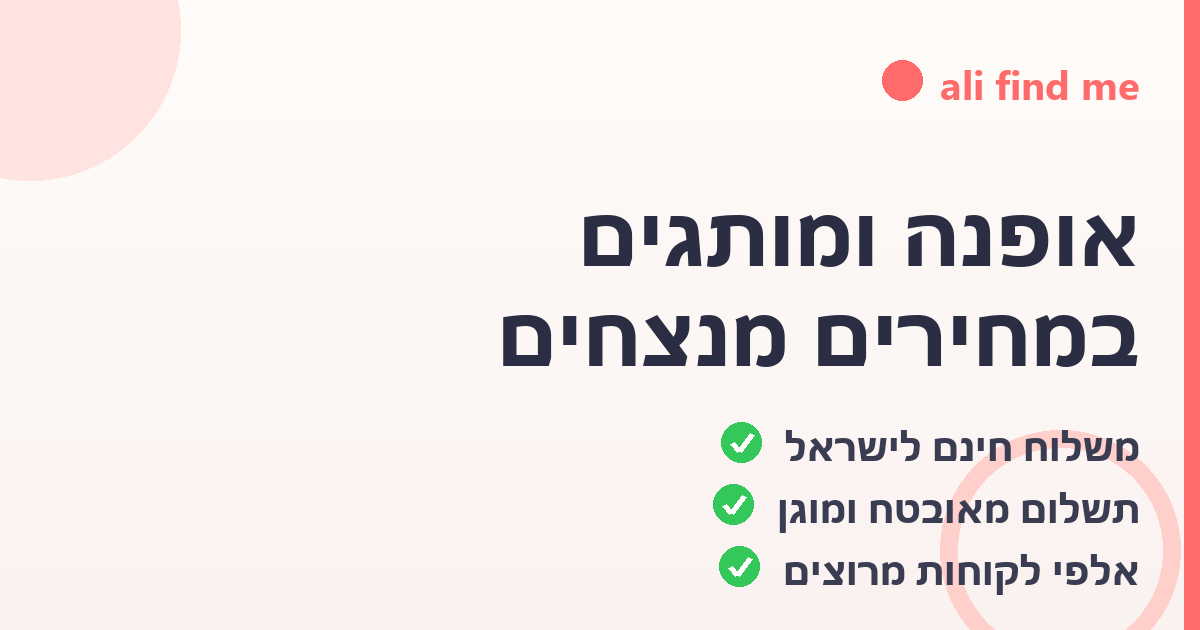
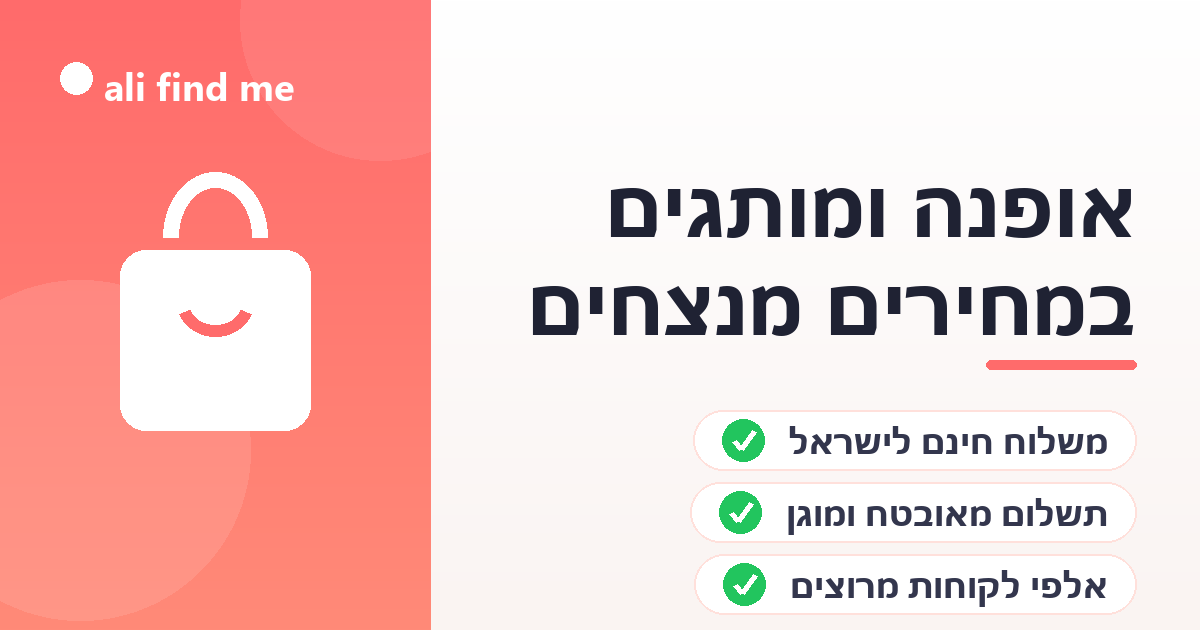
Redesign OG card: clean two-panel layout (coral brand + pill badges)
Replaces the amateur floating-circles version with a polished design:
left coral panel with shopping-bag mark + brand, right side bold
headline + coral accent underline + 3 white pill trust badges.
Bump image cache to v3.

diff --git a/404.html b/404.html
@@ -7,8 +7,8 @@
 <meta property="og:description" content="✓ משלוח חינם לישראל  ✓ תשלום מאובטח ומוגן  ✓ אלפי לקוחות מרוצים — לחצו לצפייה במוצר">
 <meta property="og:type" content="website">
 <meta property="og:site_name" content="ali find me">
-<meta property="og:image" content="https://alifindme.com/icons/og-image.png?v=2">
-<meta property="og:image:secure_url" content="https://alifindme.com/icons/og-image.png?v=2">
+<meta property="og:image" content="https://alifindme.com/icons/og-image.png?v=3">
+<meta property="og:image:secure_url" content="https://alifindme.com/icons/og-image.png?v=3">
 <meta property="og:image:type" content="image/png">
 <meta property="og:image:width" content="1200">
 <meta property="og:image:height" content="630">
@@ -17,7 +17,7 @@
 <meta name="twitter:card" content="summary_large_image">
 <meta name="twitter:title" content="אופנה ומותגים במחירים מנצחים 🛍️">
 <meta name="twitter:description" content="✓ משלוח חינם לישראל  ✓ תשלום מאובטח  ✓ אלפי לקוחות מרוצים">
-<meta name="twitter:image" content="https://alifindme.com/icons/og-image.png?v=2">
+<meta name="twitter:image" content="https://alifindme.com/icons/og-image.png?v=3">
 <script async src="https://www.googletagmanager.com/gtag/js?id=G-18NLX6KS89"></script>
 <script>window.dataLayer=window.dataLayer||[];function gtag(){dataLayer.push(arguments);}gtag('js',new Date());gtag('config','G-18NLX6KS89');</script>
 <link rel="preconnect" href="https://ae-cart.ohadf1976.workers.dev" crossorigin>

diff --git a/icons/make_og.py b/icons/make_og.py
@@ -1,70 +1,93 @@
 # -*- coding: utf-8 -*-
-# Generates a premium, trustworthy 1200x630 Open Graph card for alifindme.com landing-page links.
-from PIL import Image, ImageDraw, ImageFont
+# Premium 1200x630 Open Graph card for alifindme.com landing-page links.
+# Clean two-panel layout: coral brand panel (left) + content (right, RTL).
+from PIL import Image, ImageDraw, ImageFont, ImageFilter
 from bidi.algorithm import get_display
 
 W, H = 1200, 630
 F = "C:/Windows/Fonts/"
+PANEL = 430  # left coral panel width
 
 def font(name, size):
     return ImageFont.truetype(F + name, size)
 
 def he(s):
-    # PIL renders LTR; bidi reorders Hebrew (and mixed Hebrew+latin/numbers) correctly.
     return get_display(s)
+
+def vgrad(draw, box, c1, c2):
+    x0, y0, x1, y1 = box
+    h = y1 - y0
+    for i in range(h):
+        t = i / max(1, h - 1)
+        r = int(c1[0] + (c2[0] - c1[0]) * t)
+        g = int(c1[1] + (c2[1] - c1[1]) * t)
+        b = int(c1[2] + (c2[2] - c1[2]) * t)
+        draw.line([(x0, y0 + i), (x1, y0 + i)], fill=(r, g, b))
 
 img = Image.new("RGB", (W, H), "#ffffff")
 d = ImageDraw.Draw(img)
 
-# --- Premium warm gradient background (cream -> soft blush) ---
-top = (255, 252, 250)
-bot = (250, 242, 240)
-for y in range(H):
-    t = y / H
-    r = int(top[0] + (bot[0] - top[0]) * t)
-    g = int(top[1] + (bot[1] - top[1]) * t)
-    b = int(top[2] + (bot[2] - top[2]) * t)
-    d.line([(0, y), (W, y)], fill=(r, g, b))
+# --- Right content area: clean soft warm gradient ---
+vgrad(d, (PANEL, 0, W, H), (255, 255, 255), (250, 244, 242))
 
-# --- Coral accent bar down the right edge (RTL side) ---
-d.rectangle([W - 16, 0, W, H], fill="#ff6b6b")
+# --- Left brand panel: coral -> warm pink gradient ---
+vgrad(d, (0, 0, PANEL, H), (255, 107, 107), (255, 138, 120))
 
-# --- Soft decorative circles (depth, premium feel) ---
-d.ellipse([-120, -120, 180, 180], fill="#ffe3e0")
-d.ellipse([W - 260, H - 200, W - 20, H + 40], outline="#ffd0cb", width=18)
+# subtle large translucent circle inside the panel (depth, stays behind icon)
+ov = Image.new("RGBA", (W, H), (0, 0, 0, 0))
+od = ImageDraw.Draw(ov)
+od.ellipse([-90, 280, 250, 620], fill=(255, 255, 255, 28))
+od.ellipse([240, -120, 520, 160], fill=(255, 255, 255, 22))
+img.paste(Image.alpha_composite(img.convert("RGBA"), ov).convert("RGB"), (0, 0))
+d = ImageDraw.Draw(img)
 
-# --- Brand wordmark (top-right, RTL) ---
-brand_f = font("segoeuib.ttf", 40)
-brand = "ali find me"
-bw = d.textlength(brand, font=brand_f)
-d.text((W - 60 - bw, 56), brand, font=brand_f, fill="#ff6b6b")
-# small dot logo
-d.ellipse([W - 60 - bw - 58, 60, W - 60 - bw - 18, 100], fill="#ff6b6b")
+# --- Brand wordmark (white, top of left panel) ---
+brand_f = font("segoeuib.ttf", 38)
+d.ellipse([60, 62, 92, 94], fill="#ffffff")
+d.text((104, 60), "ali find me", font=brand_f, fill="#ffffff")
 
-# --- Main headline (Hebrew, RTL, right-aligned) ---
-h1_f = font("segoeuib.ttf", 84)
-h2_f = font("segoeuib.ttf", 84)
-line1 = he("אופנה ומותגים")
-line2 = he("במחירים מנצחים")
-d.text((W - 60, 175), line1, font=h1_f, fill="#2b2d42", anchor="ra")
-d.text((W - 60, 275), line2, font=h2_f, fill="#2b2d42", anchor="ra")
+# --- Shopping-bag icon (white line art, centered in panel) ---
+cx = PANEL // 2
+by0, by1 = 250, 430          # bag body
+bx0, bx1 = cx - 95, cx + 95
+d.rounded_rectangle([bx0, by0, bx1, by1], radius=26, fill="#ffffff")
+# handle (arc)
+d.arc([cx - 52, by0 - 78, cx + 52, by0 + 52], start=180, end=360, fill="#ffffff", width=16)
+# coral cut-outs to make it look like a bag (smile + handle holes)
+d.arc([cx - 38, by0 + 18, cx + 38, by0 + 86], start=20, end=160, fill="#ff6b6b", width=12)
 
-# --- Trust badges row (checkmark + Hebrew), right-aligned, stacked ---
-badge_f = font("segoeuib.ttf", 38)
+# --- Headline (Hebrew, RTL, right-aligned) ---
+h_f = font("segoeuib.ttf", 80)
+d.text((W - 64, 150), he("אופנה ומותגים"), font=h_f, fill="#1f2233", anchor="ra")
+d.text((W - 64, 248), he("במחירים מנצחים"), font=h_f, fill="#1f2233", anchor="ra")
+# coral accent underline under headline
+d.rounded_rectangle([W - 64 - 150, 360, W - 64, 369], radius=5, fill="#ff6b6b")
+
+# --- Trust badges as clean pill chips (right-aligned, stacked) ---
+badge_f = font("segoeuib.ttf", 34)
 badges = ["משלוח חינם לישראל", "תשלום מאובטח ומוגן", "אלפי לקוחות מרוצים"]
-y = 420
+y = 410
 for b in badges:
     txt = he(b)
     tw = d.textlength(txt, font=badge_f)
-    # text right-aligned
-    d.text((W - 60, y), txt, font=badge_f, fill="#3a3d52", anchor="ra")
-    # green check circle to the LEFT of the text (RTL leading side)
-    cx = W - 60 - tw - 44
-    cy = y + 22
-    d.ellipse([cx - 20, cy - 20, cx + 20, cy + 20], fill="#34c759")
-    d.line([(cx - 9, cy + 1), (cx - 2, cy + 9)], fill="#fff", width=5)
-    d.line([(cx - 2, cy + 9), (cx + 11, cy - 8)], fill="#fff", width=5)
-    y += 62
+    pad = 28
+    gap = 24                          # breathing room between check and text
+    chip_w = pad + 44 + gap + tw + pad
+    chip_h = 60
+    x_right = W - 64
+    x_left = x_right - chip_w
+    # pill background
+    d.rounded_rectangle([x_left, y, x_right, y + chip_h], radius=30, fill="#ffffff",
+                        outline="#ffe0db", width=2)
+    # text (right side of pill)
+    d.text((x_right - pad, y + chip_h / 2), txt, font=badge_f, fill="#33364d", anchor="rm")
+    # green check circle (left side of pill)
+    gcx = x_left + pad + 22
+    gcy = y + chip_h / 2
+    d.ellipse([gcx - 21, gcy - 21, gcx + 21, gcy + 21], fill="#22c55e")
+    d.line([(gcx - 9, gcy + 1), (gcx - 2, gcy + 9)], fill="#fff", width=5)
+    d.line([(gcx - 2, gcy + 9), (gcx + 11, gcy - 9)], fill="#fff", width=5)
+    y += 72
 
 img.save("og-image.png", "PNG")
 print("Saved og-image.png", img.size)